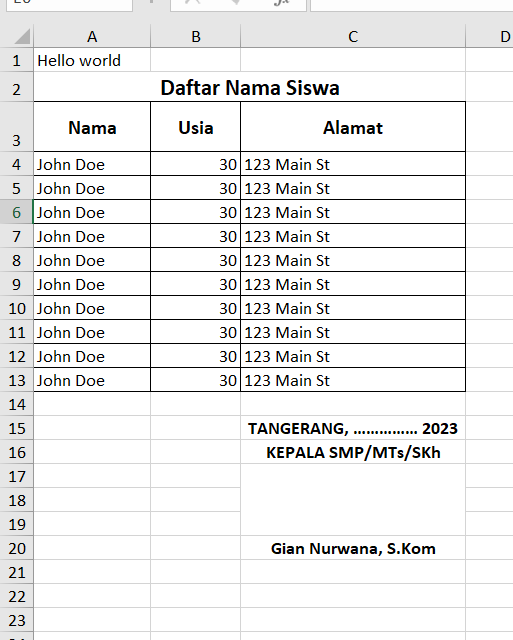
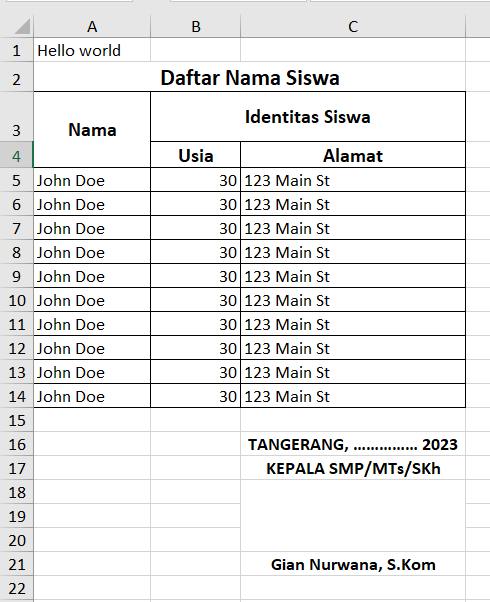
snippet contoh dengan php spreadsheet #2 merge cell

Changed region(s): [[0.0, 0.0, 1.0, 1.0], [0.5204, 0.8372, 0.8571, 0.8671], [0.5204, 0.0, 0.551, 0.0299]]

diff --git a/export-php-spreadsheet.md b/export-php-spreadsheet.md
@@ -16,11 +16,33 @@ use PhpOffice\PhpSpreadsheet\Writer\Xlsx;
 $spreadsheet = new Spreadsheet();
 $sheet = $spreadsheet->getActiveSheet();
 
+$sheet->getParent()
+    ->getDefaultStyle()
+    ->getFont()
+    ->setName('Arial Narrow');
+
 $sheet->setCellValue('A1', 'Hello world');
 
 // gabung cell
 $sheet->mergeCells('A2:C2');
 $sheet->getStyle('A2')->getAlignment()->setHorizontal(Alignment::HORIZONTAL_CENTER);
+
+$sheet->mergeCells('A3:A4');
+$sheet->getStyle('A3')->getAlignment()
+    ->setVertical(Alignment::VERTICAL_CENTER)
+    ->setHorizontal(Alignment::HORIZONTAL_CENTER);
+$sheet->getStyle('A3')->getFont()
+    ->setSize(12)
+    ->setBold(true);
+
+$sheet->mergeCells('B3:C3');
+$sheet->getStyle('B3')->getAlignment()
+    ->setHorizontal(Alignment::HORIZONTAL_CENTER)
+    ->setVertical(Alignment::VERTICAL_CENTER);
+$sheet->getStyle('B3')->getFont()
+    ->setSize(12)
+    ->setBold(true);
+$sheet->setCellValue('B3', 'Identitas Siswa');
 
 $style = $sheet->getStyle('A2');
 $font = $style->getFont();
@@ -31,17 +53,17 @@ $sheet->setCellValue('A2', 'Daftar Nama Siswa');
 // mengatu tinggi cell pada baris ke 3
 $sheet->getRowDimension(3)->setRowHeight(30);
 
-$style = $sheet->getStyle('A3:C3');
+$sheet->setCellValue('A3', 'Nama');
+$sheet->setCellValue('B4', 'Usia');
+$sheet->setCellValue('C4', 'Alamat');
+
+$style = $sheet->getStyle('A4:C4');
 $style->getAlignment()
     ->setHorizontal(Alignment::HORIZONTAL_CENTER)
     ->setVertical(Alignment::VERTICAL_CENTER);
 $font = $style->getFont();
 $font->setSize(12); // Ukuran font 14 poin
 $font->setBold(true); // Mengatur gaya tebal (bold)
-
-$sheet->setCellValue('A3', 'Nama');
-$sheet->setCellValue('B3', 'Usia');
-$sheet->setCellValue('C3', 'Alamat');
 
 $styleArray = [
     'borders' => [
@@ -60,7 +82,7 @@ for ($i = 0; $i < 10; $i++) {
     $data[] = $sampleData;
 }
 
-$row = 4; // Mulai dari baris ke-2
+$row = 5; // Mulai dari baris ke-2
 foreach ($data as $item) {
     $sheet->setCellValue('A' . $row, $item->nama);
     $sheet->setCellValueExplicit('B' . $row, $item->usia, DataType::TYPE_NUMERIC);
@@ -97,7 +119,7 @@ $sheet->getColumnDimension('B')->setWidth(10);
 $sheet->getColumnDimension('C')->setAutoSize(true);
 
 $writer = new Xlsx($spreadsheet);
-$writer->save('hasil/dasar2.xlsx');
+$writer->save('hasil/dasar3.xlsx');
 ```
 
 Hasil:
